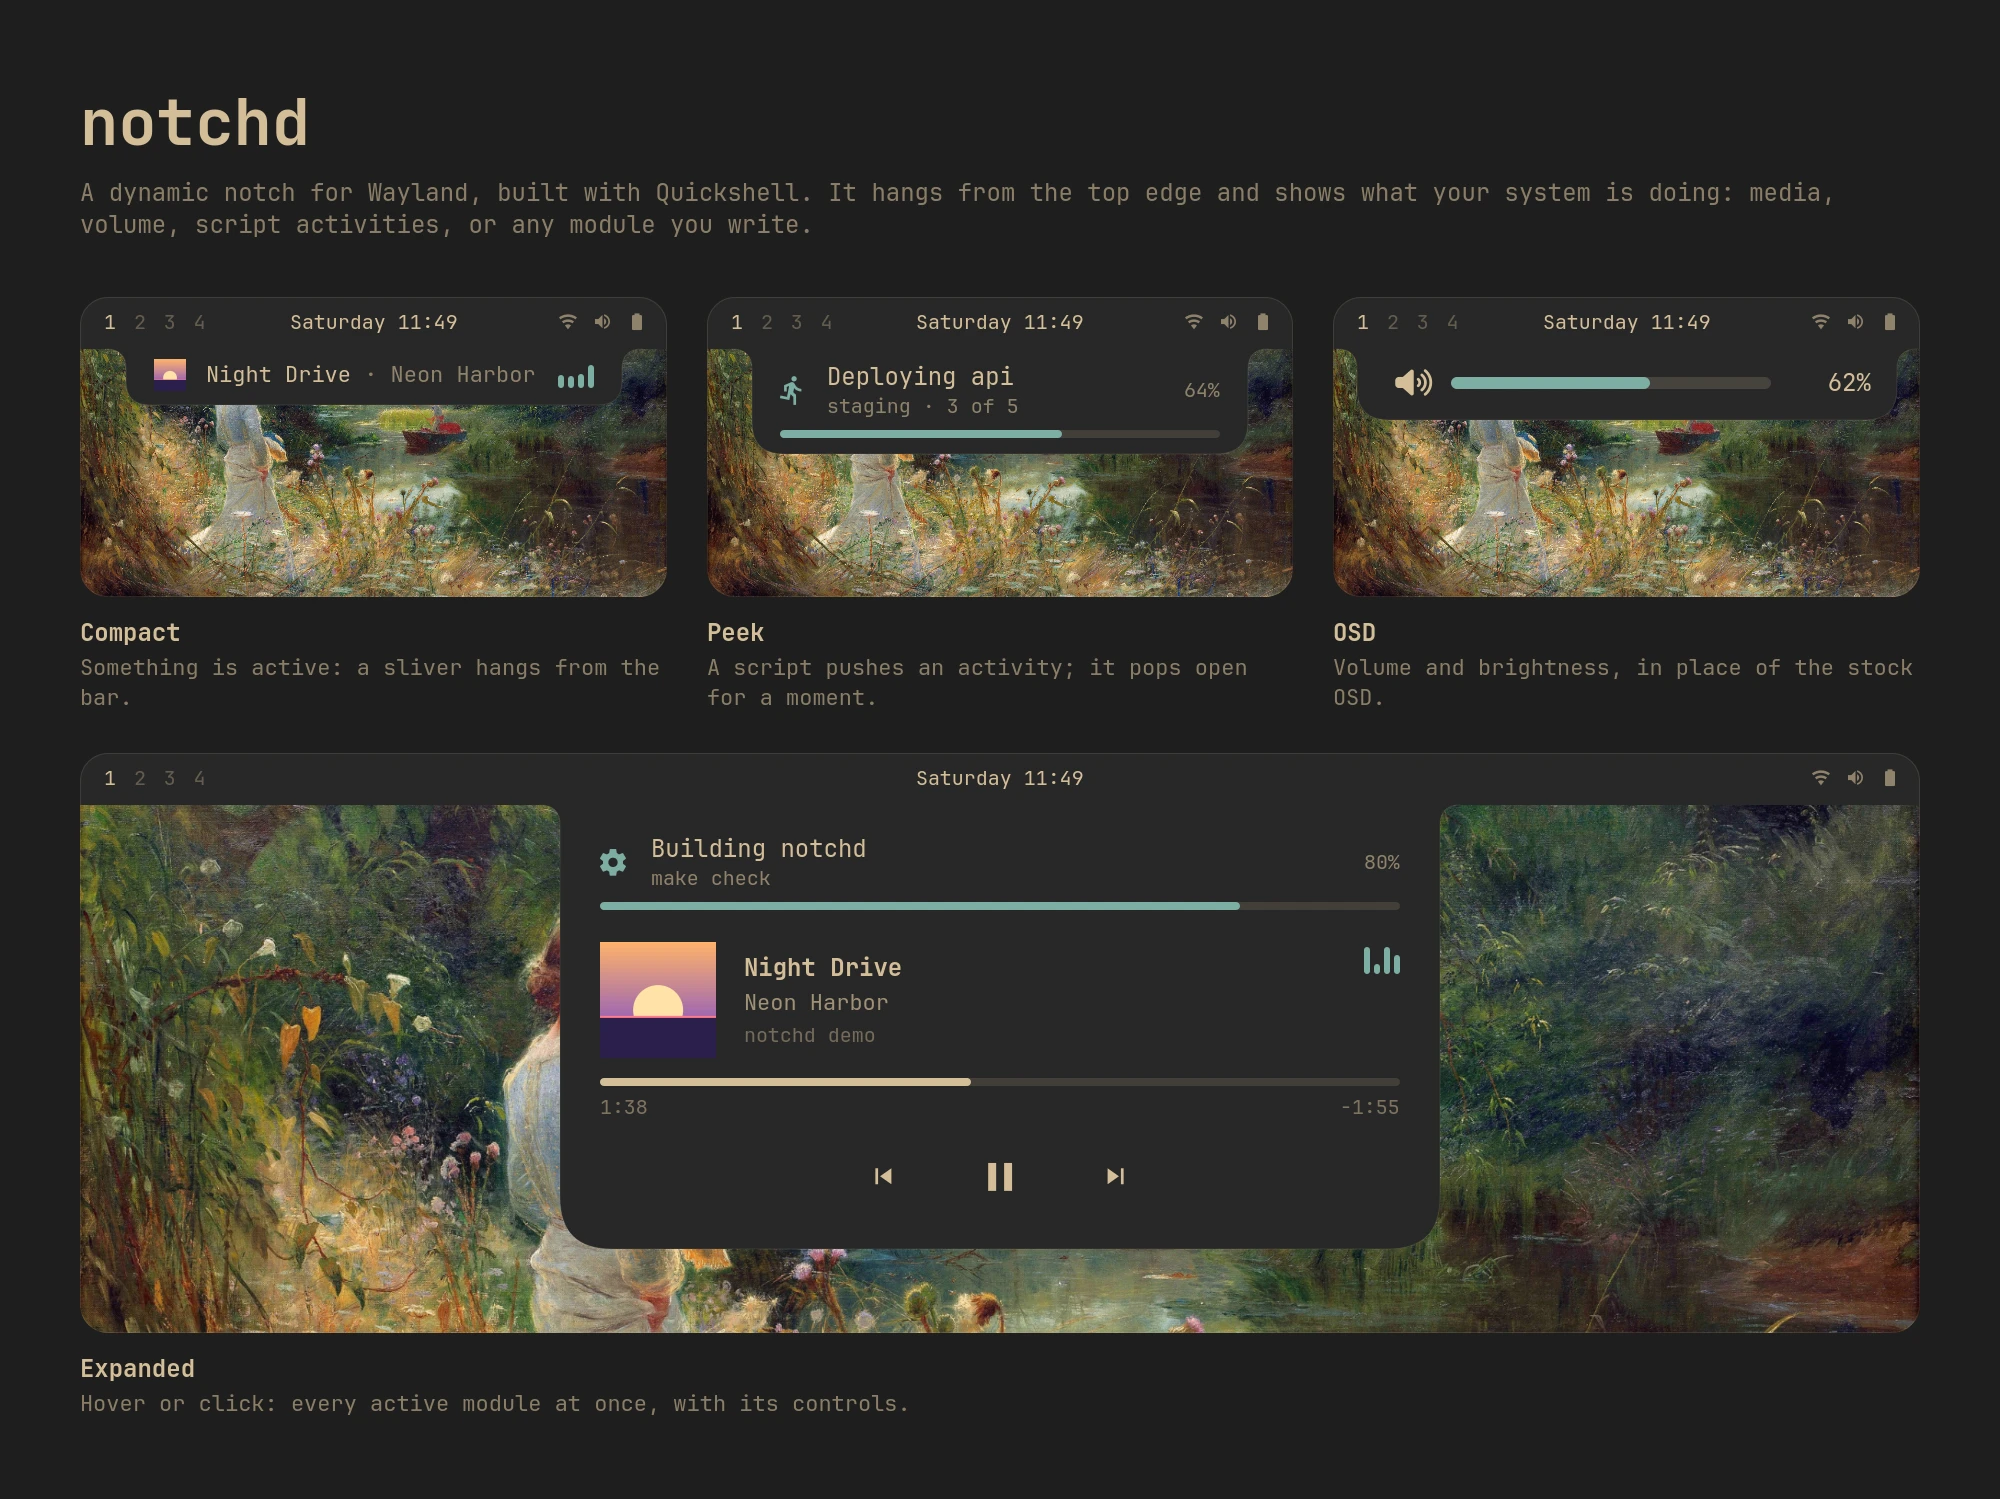
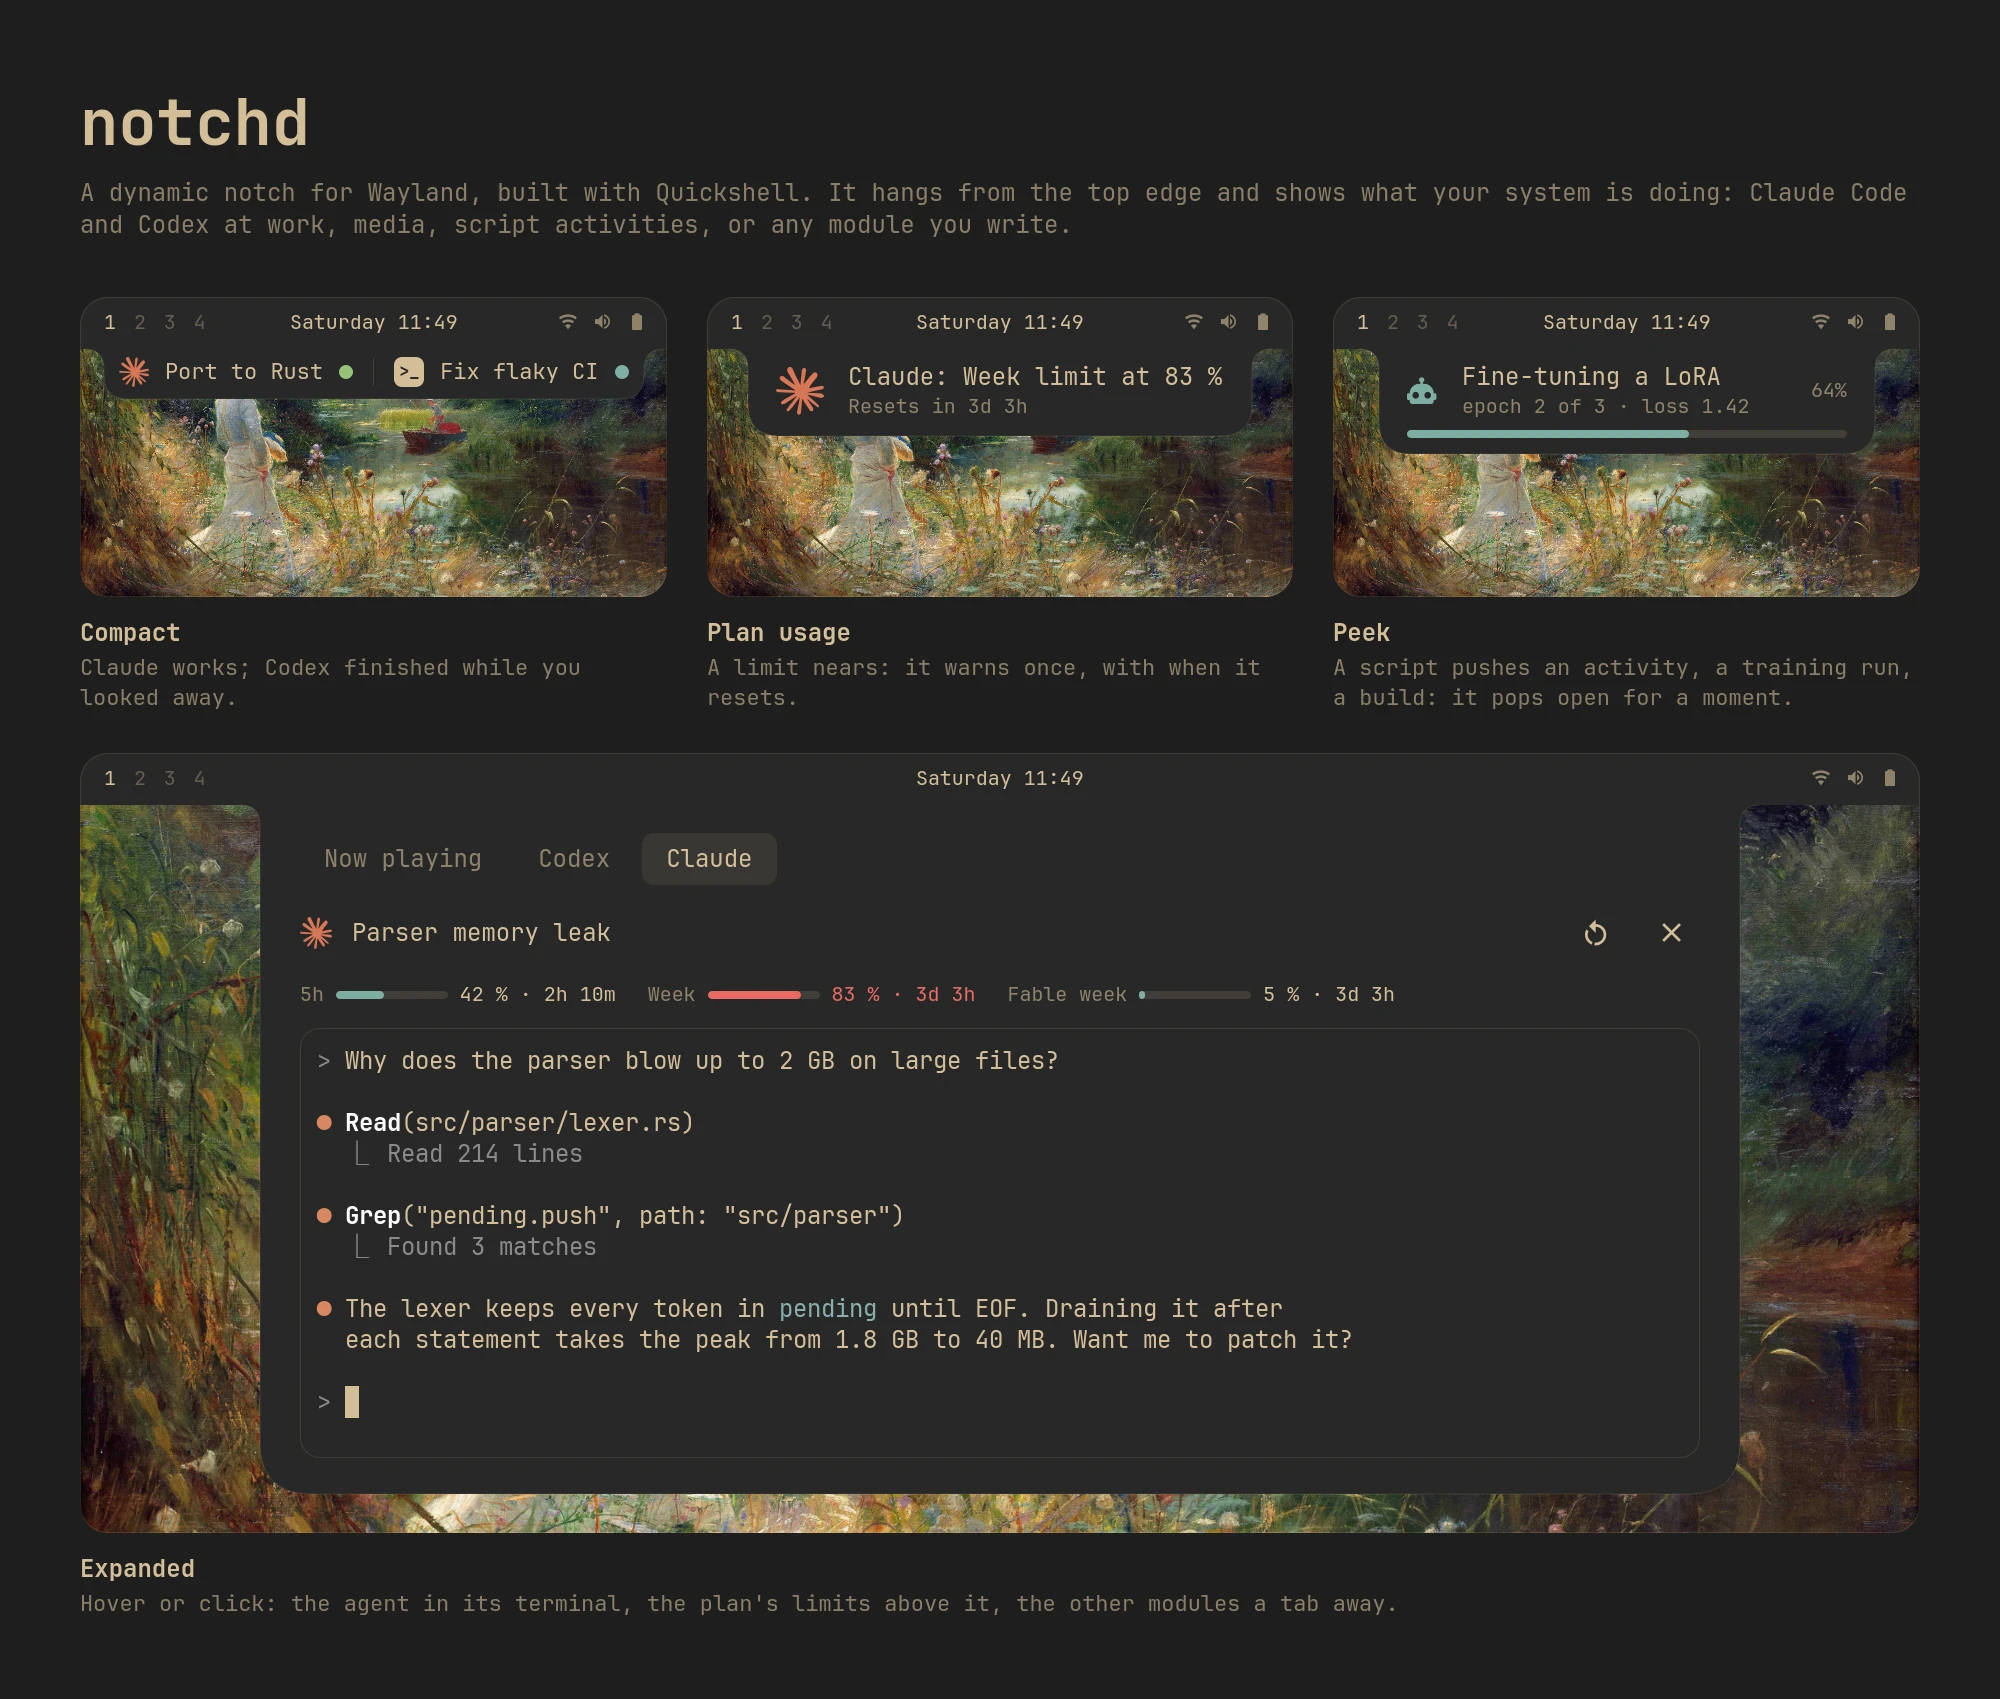
docs: a README image that shows the agents
Claude and Codex in the closed notch, a plan-usage warning, a script's
fine-tune as the peek, and Claude open in its terminal with its limits,
on a coding question. The OSD left the image.

The agents are demo scripts (tests/visual/bin) that hero.sh puts first on
PATH: they print a finished conversation, so the image never shows your
own claude or codex, and the limits are set by hand.

diff --git a/tests/visual/hero.qml b/tests/visual/hero.qml
@@ -8,7 +8,9 @@ import "core"
 // states, each driven by its own NotchService with demo data, over a mock
 // desktop in Omarchy's Gruvbox theme. scripts/hero.sh runs it offscreen on a
 // private D-Bus with demo-player.py, so the media module shows a fictional
-// track, and passes the wallpaper (a gradient stands in without one).
+// track, with tests/visual/bin's `claude` and `codex` (a finished
+// conversation, printed) first on PATH, and passes the wallpaper (a
+// gradient stands in without one).
 ShellRoot {
   id: root
 
@@ -31,25 +33,26 @@ ShellRoot {
     ipcTarget: "notchd-hero-" + tag
     configPath: root.outDir + "/hero-" + tag + ".json"
   }
-  Service { id: compactSvc; tag: "compact"; defaultModules: ["media"] }
+  Service { id: compactSvc; tag: "compact"; defaultModules: ["claude", "codex"] }
   Service { id: activitySvc; tag: "activity"; defaultModules: ["activities"] }
-  Service {
-    id: osdSvc; tag: "osd"; defaultModules: []
-    hostModules: ({ osd: Qt.resolvedUrl("hosts/omarchy/modules/osd.qml") })
+  Service { id: usageSvc; tag: "usage"; defaultModules: ["claude"] }
+  Service { id: expandedSvc; tag: "expanded"; defaultModules: ["claude", "codex", "media"] }
+
+  // The plan's limits, by hand: offscreen nothing asks the network.
+  function limits(week) {
+    var later = function(mins) { return new Date(Date.now() + mins * 60000).toISOString() }
+    return { limits: [
+      { kind: "session", group: "session", percent: 42, resets_at: later(130) },
+      { kind: "weekly_all", group: "weekly", percent: week, resets_at: later(3 * 1440 + 200) },
+      { kind: "weekly_scoped", group: "weekly", percent: 5, resets_at: later(3 * 1440 + 200),
+        scope: { model: { display_name: "Fable" } } } ] }
   }
-  Service { id: expandedSvc; tag: "expanded"; defaultModules: ["media", "activities"] }
 
   // A slice of a desktop: wallpaper, a bar, and the notch hanging from it.
   component Screen: Rectangle {
     id: screen
     property var svc: null
-    // The copy to draw: the service's first notch's; the OSD, standalone,
-    // has a notch of its own.
-    readonly property var copy: {
-      if (!screen.svc) return null
-      var own = screen.svc.standaloneNotch("osd")
-      return own && own.copies.length > 0 ? own.copies[0] : screen.svc.firstCopy
-    }
+    readonly property var copy: screen.svc ? screen.svc.firstCopy : null
     readonly property int barHeight: Theme.space(26)
 
     readonly property real cornerRadius: Theme.space(14)
@@ -205,7 +208,7 @@ ShellRoot {
           }
           Text {
             Layout.fillWidth: true
-            text: "A dynamic notch for Wayland, built with Quickshell. It hangs from the top edge and shows what your system is doing: media, volume, script activities, or any module you write."
+            text: "A dynamic notch for Wayland, built with Quickshell. It hangs from the top edge and shows what your system is doing: Claude Code and Codex at work, media, script activities, or any module you write."
             wrapMode: Text.Wrap
             color: Theme.muted
             font.family: Theme.font.family
@@ -218,9 +221,9 @@ ShellRoot {
           spacing: scene.gap
           Repeater {
             model: [
-              { svc: compactSvc, title: "Compact", detail: "Something is active: a sliver hangs from the bar." },
-              { svc: activitySvc, title: "Peek", detail: "A script pushes an activity; it pops open for a moment." },
-              { svc: osdSvc, title: "OSD", detail: "Volume and brightness, in place of the stock OSD." }
+              { svc: compactSvc, title: "Compact", detail: "Claude works; Codex finished while you looked away." },
+              { svc: usageSvc, title: "Plan usage", detail: "A limit nears: it warns once, with when it resets." },
+              { svc: activitySvc, title: "Peek", detail: "A script pushes an activity, a training run, a build: it pops open for a moment." }
             ]
             ColumnLayout {
               required property var modelData
@@ -242,13 +245,13 @@ ShellRoot {
           spacing: Theme.space(10)
           Screen {
             Layout.fillWidth: true
-            Layout.preferredHeight: Theme.space(290)
+            Layout.preferredHeight: Theme.space(390)
             svc: expandedSvc
           }
           Caption {
             Layout.fillWidth: true
             title: "Expanded"
-            detail: "Hover or click: every active module at once, with its controls."
+            detail: "Hover or click: the agent in its terminal, the plan's limits above it, the other modules a tab away."
           }
         }
       }
@@ -261,13 +264,28 @@ ShellRoot {
     interval: 1500; running: true
     onTriggered: {
       activitySvc.moduleById("activities").push(JSON.stringify({
-        id: "deploy", icon: "", title: "Deploying api", subtitle: "staging · 3 of 5",
+        id: "train", icon: "", title: "Fine-tuning a LoRA", subtitle: "epoch 2 of 3 · loss 1.42",
         progress: 64, duration: 600000 }))
-      osdSvc.moduleById("osd").show(JSON.stringify({ icon: "volume", value: "62", duration: "600000" }))
-      expandedSvc.moduleById("activities").push(JSON.stringify({
-        id: "build", icon: "", title: "Building notchd", subtitle: "make check",
-        progress: 80, sticky: true, peek: false }))
+      // Agents in notchd's folder here, not the real one.
+      var services = [compactSvc, usageSvc, expandedSvc]
+      for (var i = 0; i < services.length; i++) {
+        services[i].setConfigValue("claude.directory", root.outDir)
+        services[i].setConfigValue("codex.directory", root.outDir)
+      }
+      compactSvc.moduleById("claude").status = { working: true, title: "Port to Rust" }
+      var codex = compactSvc.moduleById("codex")
+      codex.status = { working: false, title: "Fix flaky CI" }
+      codex.attention = true
+      // The week passes the warning between two answers: the peek.
+      var claude = usageSvc.moduleById("claude")
+      claude.usage.apply(root.limits(76))
+      claude.usage.apply(root.limits(83))
+      claude.requestPeek(600000)
+      expandedSvc.setConfigValue("claude.width", 700)
+      expandedSvc.setConfigValue("claude.height", 215)
+      expandedSvc.moduleById("claude").usage.apply(root.limits(83))
       expandedSvc.open()
+      expandedSvc.firstCopy.showTab("claude")
       grabTimer.start()
     }
   }

diff --git a/CHANGELOG.md b/CHANGELOG.md
@@ -9,6 +9,7 @@ All user-visible changes. The format follows [Keep a Changelog](https://keepacha
 - Plan usage for `claude` and `codex`: the open agent shows a bar per limit (5 hours, the week, a model's week) with how much is used and when it resets, and peeks once when one passes 80 % (`usageWarn`) and when it is reached. notchd asks the endpoint each CLI calls, every 5 minutes and when the agent finishes a task, with the login the CLI keeps, which it only reads; when that lapses, the last figures stay, marked stale, until the agent renews it. Settings: Modules › Agents › its gear › Usage.
 - Agents, a kind of module of their own: `claude` and `codex` are listed apart on the Modules page, under Agents, and share one set of fields (folder, command, stop when idle, size, font), which a new agent gets by saying `"agent": { "command": ... }` in its JSON file. `agent <id> toggle` opens or closes the notch that shows an agent, on its tab, whatever the notch is called; bind that instead of `toggleNotch <name>`, which renaming the notch breaks. `agent <id> new` and `agent <id> "ask ..."` do what `claude new` and `claude "ask ..."` do, which stay.
 - An agent without a folder of its own starts in notchd's: `notchd` in your Documents folder, made the first time, instead of your home.
+- The README image shows the agents: Claude and Codex in the closed notch, a plan-usage warning, a script's fine-tune, and Claude open in its terminal with its limits; the OSD left it.
 - Leaving the notch from the keyboard: Ctrl+Escape in the `claude` or `codex` terminal closes the notch (the agent goes on), and a focus or workspace shortcut that moves to a window closes it too. Before, the open notch kept the keyboard until a click away.
 - Tabs (`tabs`, on by default; settings: Notches › its gear › Layout › Tabs): a notch with several modules shows one at a time open, with a tab for each, instead of all of them one above the other. Opening the notch from a module (a shortcut, `claude "ask ..."`) picks its tab. Closed, it shows every active module side by side, not just the highest-priority one. `tabs: false` brings back the old way.
 - Icons for idle modules (`idleIcons`, on by default; settings: Notches › its gear › Layout): a module that is active with nothing to show closed, like a timer that isn't running, shows its icon in the closed notch. Modules declare it with `icon`.

diff --git a/DEVELOPMENT.md b/DEVELOPMENT.md
@@ -55,6 +55,7 @@ tests/
   visual/shell.qml    offscreen scenarios: the settings window, the notch per edge
   visual/hero.qml     the README image: the real notch in four states
   visual/demo-player.py  a fake MPRIS player with a fictional track
+  visual/bin/         the README image's `claude` and `codex`: a finished conversation, printed
 docs/                 reference: modules, hosts, settings, theming, IPC
 docs/images/          hero.webp, generated by `make hero` and committed
 assets/icons/         the app icon: hicolor/scalable/apps/notchd.svg is the source; the PNGs at every
@@ -139,7 +140,7 @@ Objects and arrays built inside the vm have their own prototypes; compare them t
 
 ### README image
 
-`make hero` renders `docs/images/hero.webp` from `tests/visual/hero.qml`: the real `NotchCard` in four states, each with its own `NotchService` and demo data, offscreen. It runs on a private D-Bus where the only media player is `tests/visual/demo-player.py`, so whatever you are playing never ends up in the image. The tiles use Omarchy's Gruvbox colors and its "The Backwater" wallpaper (`WALLPAPER=<image> make hero` for another; a gradient without one). The wallpaper stays out of the repo; only the rendered image is committed. Rerun it after a visual change to the notch and commit the result.
+`make hero` renders `docs/images/hero.webp` from `tests/visual/hero.qml`: the real `NotchCard` in four states, each with its own `NotchService` and demo data, offscreen. It runs on a private D-Bus where the only media player is `tests/visual/demo-player.py`, so whatever you are playing never ends up in the image, and with `tests/visual/bin` first on PATH, so the agents are demo scripts that print a finished conversation, never your own `claude` or `codex`, and their usage is set by hand (offscreen nothing asks the network). The tiles use Omarchy's Gruvbox colors and its "The Backwater" wallpaper (`WALLPAPER=<image> make hero` for another; a gradient without one). The wallpaper stays out of the repo; only the rendered image is committed. Rerun it after a visual change to the notch and commit the result.
 
 ### App icon
 

diff --git a/README.md b/README.md
@@ -1,6 +1,6 @@
 # <img src="assets/icons/hicolor/scalable/apps/notchd.svg" alt="" width="40" align="top"> notchd
 
-![notchd in its four states: compact, peek, OSD and expanded](docs/images/hero.webp)
+![notchd with Claude Code and Codex: both in the closed notch, a plan-usage warning, a fine-tune pushed by a script, and Claude open in its terminal](docs/images/hero.webp)
 
 A dynamic notch for Wayland desktops, built with Quickshell. It hangs from an edge of the focused screen (the top by default) and shows modules: media, OSD, script activities, system resources, a timer, Claude Code or Codex in a terminal, or anything you write. You can have several notches, each with its own modules and place, and one on every monitor.
 
